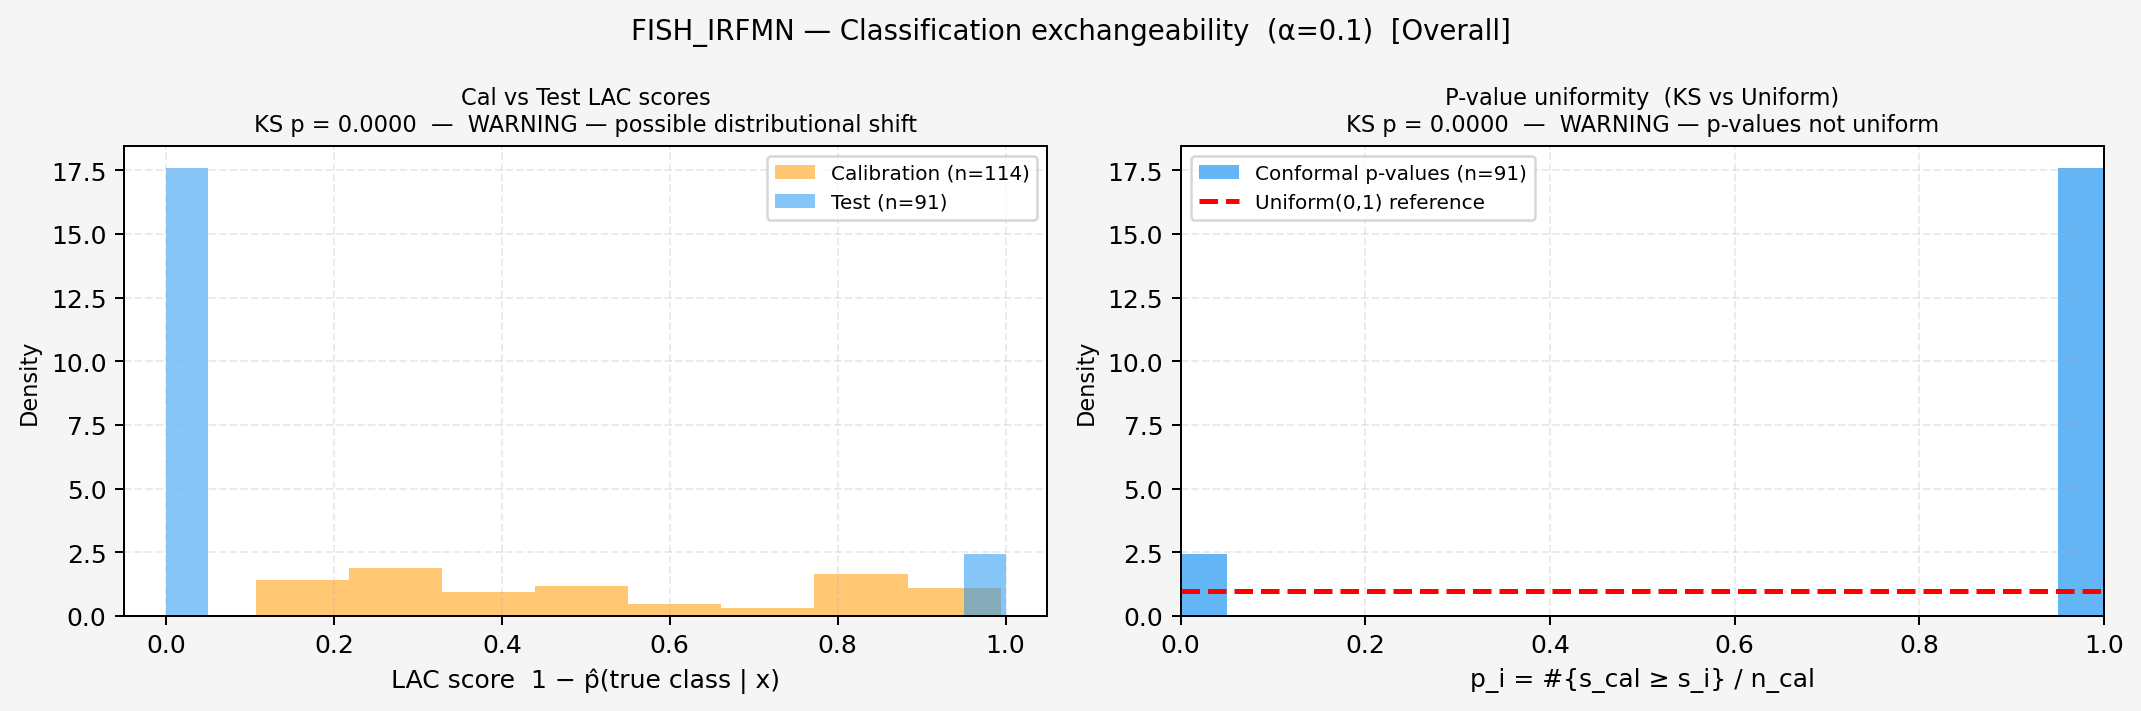
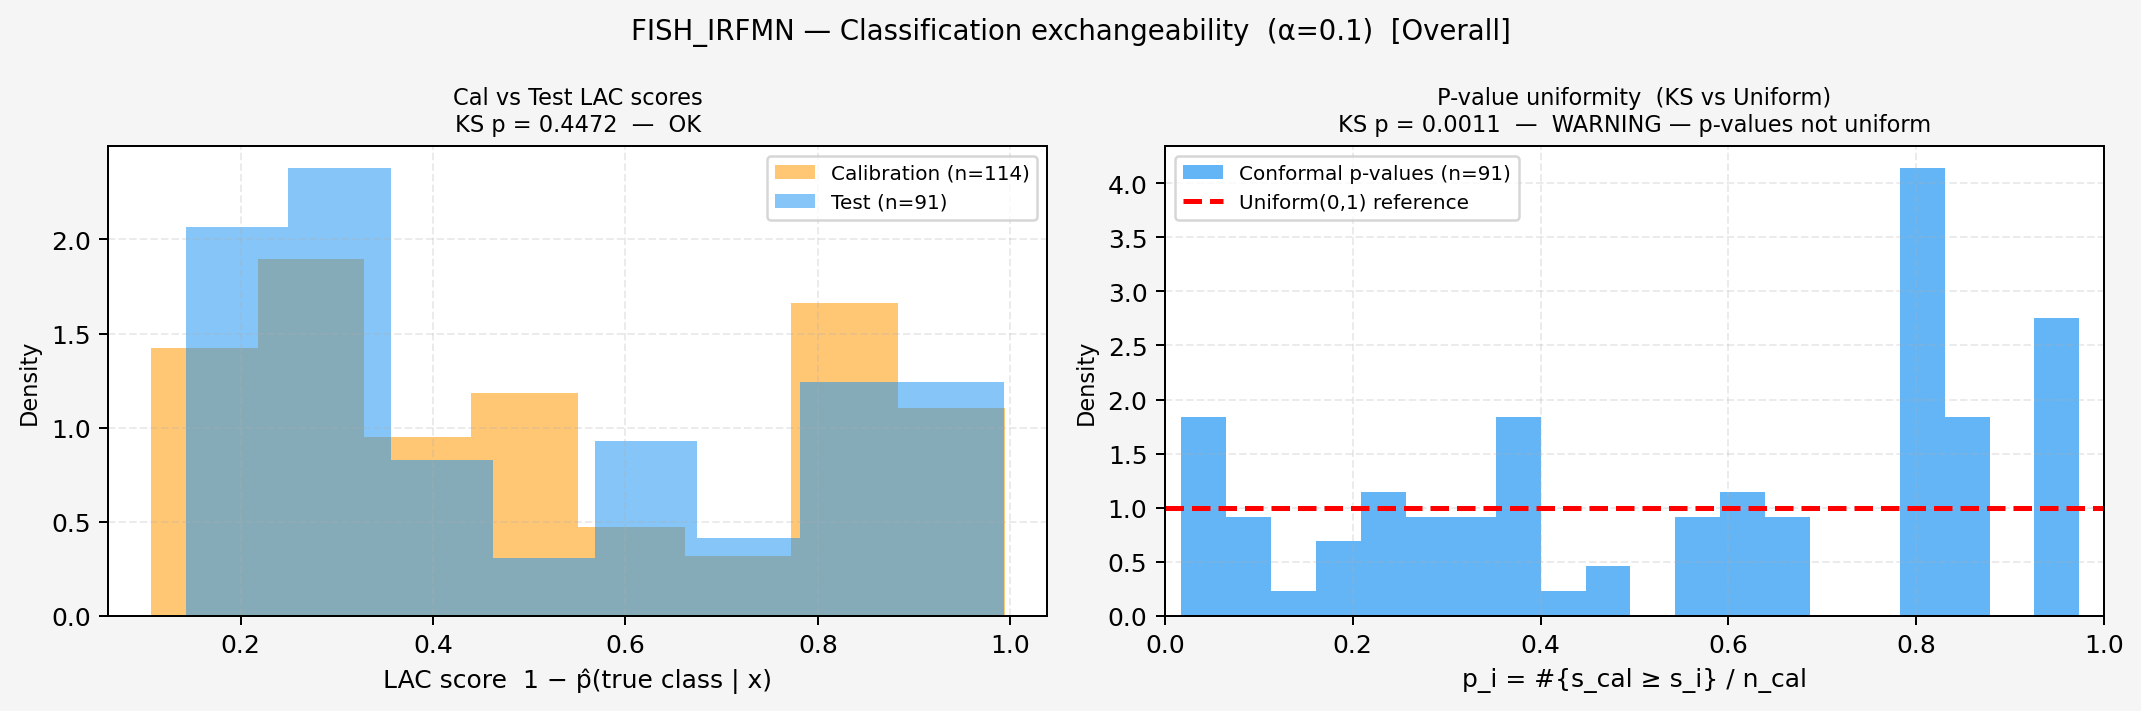
proper exchangeability test

diff --git a/tasks/mapie_publication_plots.py b/tasks/mapie_publication_plots.py
@@ -1258,199 +1258,79 @@ def plot_e1_regression_exchangeability(
     return path
 
 
-def _get_cal_scores_classifier(mapie_obj):
+def _compute_lac_scores(saved, df, model, cache_path=None):
     """
-    Extract calibration conformity scores from SplitConformalClassifier.
-    Correct path (confirmed by introspection):
-      mapie._mapie_classifier.conformity_scores_   shape (n_cal, 1)
-    Returns 1-D array.
-    """
-    raw = mapie_obj._mapie_classifier.conformity_scores_
-    return raw.squeeze()
+    Compute LAC conformity scores directly from the saved model + DataFrame.
 
+    s_i = 1 - p_pseudo(y_true | x)  where true label is known.
+    s_i = 1 - p_pseudo(y_pred | x)  where true label is absent.
 
-def _recompute_test_scores(saved, df_excel, model, cache_path):
-    """
-    Compute test LAC scores: s_i = 1 - p_pseudo(y_true_i | x_i).
-
-    Route A — tutorial Excel (has pseudo_p_* columns):
-        No ECFP recomputation needed.
-
-    Route B — main-pipeline Excel (has in_set_class_* columns):
-        Reconstruct pseudo-probabilities from the NCM distance model
-        already stored in the pickle + ECFP fingerprints.
-        Requires Smiles column + cache_path.
-
-    Route C — in_set_class_* + true label available (no ECFP needed):
-        Use 1 - in_set score proxy: s_i = 1 - p_pseudo derived from
-        saved calibration quantile.  Approximate but avoids cache_path.
-        Used as fallback when cache_path is None.
+    No column-sniffing, no routes.  Uses sigma_model from the pickle and
+    ECFP fingerprints computed from the Smiles column.
+    cache_path is optional: only speeds up fingerprint memoisation.
 
     Returns
     -------
-    scores_test   : 1-D float array  (n_test,)
-    y_true_mapped : 1-D int array    (n_test,)  contiguous class indices
-    class_order   : list of original class labels (for display)
-    route         : str
+    scores        : 1-D float array (n,)
+    y_true_mapped : 1-D int array   (n,)  — -1 where true label absent
     """
-    sigma_model   = saved["sigma_model"]
-    ncm_type      = saved["ncm"]
-    classes       = saved["classes"]           # contiguous 0-based ints
-    classes_orig  = saved["classes_original"]
-    class_to_map  = saved["class_to_mapped"]
-    mapped_to_cls = saved["mapped_to_class"]
+    from qubounds.descriptors.ecfp import smiles_to_ecfp_cached
+    from qubounds.mapie_class_lac import NCMProbabilisticClassifier
 
-    # ── detect true-label column ───────────────────────────────────────────────
-    true_col_candidates = [f"{model}_true", "True", "true", "Experimental", "Exp", "exp"]
-    true_col = next((c for c in true_col_candidates if c in df_excel.columns), None)
-    has_true = true_col is not None and df_excel[true_col].notna().any()
+    if cache_path is not None:
+        from qubounds.descriptors.ecfp import init_cache
+        init_cache(cache_path)
 
-    # ── Route A: tutorial Excel with pseudo_p_* columns ───────────────────────
-    pseudo_cols = [c for c in df_excel.columns if "pseudo_p_" in c.lower()]
-
-    if pseudo_cols and has_true:
-        display(Markdown(
-            f"  Route A: reconstructing test scores from `pseudo_p_*` columns."
-        ))
-
-        def _parse_cls(col):
-            sfx = col.lower().split("pseudo_p_")[-1]
-            try:
-                return int(sfx)
-            except ValueError:
-                return sfx
-
-        col_cls_order = [_parse_cls(c) for c in pseudo_cols]
-        cls_to_col    = {cls: i for i, cls in enumerate(col_cls_order)}
-
-        y_true_raw = df_excel[true_col].dropna().values
-        proba_mat  = df_excel[pseudo_cols].values.astype(float)
-
-        valid = np.array([y in cls_to_col for y in y_true_raw])
-        y_tv  = y_true_raw[valid]
-        pp_v  = proba_mat[valid]
-        col_i = np.array([cls_to_col[y] for y in y_tv])
-        scores_test   = 1.0 - pp_v[np.arange(len(y_tv)), col_i]
-        y_true_mapped = np.array([class_to_map.get(y, -1) for y in y_tv])
-        return scores_test, y_true_mapped, list(classes_orig), "tutorial_pseudo_p"
-
+    sigma_model  = saved["sigma_model"]
+    ncm_type     = saved["ncm"]
+    classes      = saved["classes"]
+    class_to_map = saved["class_to_mapped"]
 
     def _map(v):
         try:
             return class_to_map.get(int(float(v)), class_to_map.get(v, -1))
         except (TypeError, ValueError):
-            return class_to_map.get(v, -1)
+            return -1
 
-    # ── Route C: {tag}_lac_score_true — exact, no ECFP, check BEFORE Route B preamble ──
-    lac_col = f"{model}_lac_score_true"
-    if lac_col in df_excel.columns and has_true:
-        display(Markdown(f"  Route C: reading exact LAC scores from `{lac_col}` column."))
-        df_lac        = df_excel[[true_col, lac_col]].dropna().reset_index(drop=True)
-        y_true_mapped = np.array([_map(v) for v in df_lac[true_col].values])
-        valid_lac     = y_true_mapped >= 0
-        scores_test   = df_lac.loc[valid_lac, lac_col].values.astype(float)
-        y_true_mapped = y_true_mapped[valid_lac]
-        return scores_test, y_true_mapped, list(classes_orig), "excel_lac_score_true"
-
-    # ── Route B preamble: build df_v, y_true_mapped, y_pred_mapped ────────────────
-    inset_cols = [c for c in df_excel.columns if c.startswith("in_set_class_")]
-    if not has_true:
-        raise RuntimeError(
-            "Cannot compute test LAC scores without true labels. "
-            f"Tried columns: {true_col_candidates}"
-        )
-
-    pred_candidates = [f"{model}_pred", "pred", "Pred", "Predicted"]
-    pred_col = next((c for c in pred_candidates if c in df_excel.columns), None)
-    if pred_col is None:
-        raise RuntimeError(f"No prediction column found. Tried: {pred_candidates}")
-
-
-    df_v          = df_excel.dropna(subset=[true_col, pred_col]).reset_index(drop=True)
-    y_true_mapped = np.array([_map(v) for v in df_v[true_col].values])
-    y_pred_mapped = np.array([_map(v) for v in df_v[pred_col].values])
-    valid         = (y_true_mapped >= 0) & (y_pred_mapped >= 0)
-    df_v          = df_v[valid].reset_index(drop=True)
-    y_true_mapped = y_true_mapped[valid]
-    y_pred_mapped = y_pred_mapped[valid]
-
-   # ── Route D: in_set_class_* binary proxy (last resort) ───────────────────
-    # Approximate: 0 if true class in prediction set, 1 if not.
-    # Works without re-running mapiec.py but gives binary not continuous scores.
-    if inset_cols:
-        display(Markdown(
-            "  Route D (fallback): binary proxy from `in_set_class_*` columns. "
-            "Re-run mapiec.py with the lac_score patch for exact continuous scores."
-        ))
-        def _parse_inset(col):
-            sfx = col.replace("in_set_class_", "")
-            try:
-                v = float(sfx); return int(v) if v == int(v) else v
-            except ValueError:
-                return sfx
- 
-        inset_cls_order  = [_parse_inset(c) for c in inset_cols]
-        inset_to_j       = {c: i for i, c in enumerate(inset_cls_order)}
-        n_v              = len(df_v)
-        in_set_m         = np.zeros((n_v, len(inset_cls_order)), dtype=bool)
-        for col in inset_cols:
-            j = inset_to_j.get(_parse_inset(col), -1)
-            if j >= 0:
-                in_set_m[:, j] = df_v[col].values.astype(bool)
- 
-        inset_cls_mapped = {_map(c): i for c, i in inset_to_j.items()}
-        scores_test = np.array([
-            0.0 if (y_true_mapped[i] in inset_cls_mapped
-                    and in_set_m[i, inset_cls_mapped[y_true_mapped[i]]])
-            else 1.0
-            for i in range(n_v)
-        ])
-        return scores_test, y_true_mapped, list(classes_orig), "inset_binary_proxy"
- 
-    if cache_path is None:
-        raise RuntimeError(
-            "No lac_score column, no in_set_class_* columns, and cache_path is None. "
-            "Re-run mapiec.py with the lac_score patch."
-        )
-
-    # ── Route B proper: ECFP recompute ────────────────────────────────────────
-
-    display(Markdown("  Route B: recomputing via ECFP + NCM model."))
- 
-    smiles_col = next(
-        (c for c in ["Smiles", "SMILES", "smiles"] if c in df_excel.columns), None
-    )
+    smiles_col = next((c for c in ["Smiles", "SMILES", "smiles"] if c in df.columns), None)
     if smiles_col is None:
-        raise RuntimeError("No Smiles column found in Excel for Route B.")
- 
-    df_v_sm       = df_v.loc[df_v[smiles_col].notna()].reset_index(drop=True)
-    y_true_mapped = y_true_mapped[:len(df_v_sm)]
-    y_pred_mapped = y_pred_mapped[:len(df_v_sm)]
- 
-    from qubounds.descriptors.ecfp import smiles_to_ecfp_cached
-    from qubounds.mapie_class_lac import NCMProbabilisticClassifier
- 
-    # cache_path may be None — smiles_to_ecfp_cached works without cache,
-    # it just won't persist fingerprints between runs.
-    if cache_path is not None:
-        from qubounds.descriptors.ecfp import init_cache
-        init_cache(cache_path)
- 
-    X_test = np.array([smiles_to_ecfp_cached(s) for s in df_v_sm[smiles_col].values])
- 
+        raise RuntimeError("No Smiles column found.")
+
+    pred_col = next(
+        (c for c in [f"{model}_pred", "Pred", "pred", "Predicted"] if c in df.columns), None
+    )
+    if pred_col is None:
+        raise RuntimeError(f"No prediction column. Tried: {model}_pred, Pred, pred")
+
+    true_col = next(
+        (c for c in [f"{model}_true", "True", "true", "Experimental"] if c in df.columns), None
+    )
+
+    df_v = df.dropna(subset=[smiles_col, pred_col]).reset_index(drop=True)
+    y_pred_mapped = np.array([_map(v) for v in df_v[pred_col].values])
+    valid_pred    = y_pred_mapped >= 0
+    df_v          = df_v[valid_pred].reset_index(drop=True)
+    y_pred_mapped = y_pred_mapped[valid_pred]
+
+    y_true_mapped = np.full(len(df_v), -1, dtype=int)
+    if true_col is not None:
+        for i, v in enumerate(df_v[true_col].values):
+            y_true_mapped[i] = _map(v)
+
+    X = np.array([smiles_to_ecfp_cached(s) for s in df_v[smiles_col].values])
+
     ncm_est = NCMProbabilisticClassifier(
-        y_pred    = y_pred_mapped,
-        ncm_model = sigma_model,
-        ncm_type  = ncm_type,
-        classes   = classes,
+        y_pred=y_pred_mapped, ncm_model=sigma_model,
+        ncm_type=ncm_type, classes=classes,
     )
     ncm_est.fit()
-    pseudo_proba = ncm_est.predict_proba(X_test)
-    scores_test  = 1.0 - pseudo_proba[np.arange(len(y_true_mapped)), y_true_mapped]
- 
-    return scores_test, y_true_mapped, list(classes_orig), "ecfp_recompute"
- 
- 
+    pseudo_proba = ncm_est.predict_proba(X)   # (n, n_classes)
+
+    target_idx = np.where(y_true_mapped >= 0, y_true_mapped, y_pred_mapped)
+    scores     = 1.0 - pseudo_proba[np.arange(len(target_idx)), target_idx]
+    return scores, y_true_mapped
+
+
 def _load_lac_scores_from_excel(excel_path, model):
     """
     Load classification calibration LAC scores from the Excel.
@@ -1521,54 +1401,39 @@ def plot_e2_classification_exchangeability(
 
     mapie_obj = saved["mapie"]
 
-    # ── Calibration scores: Excel first (exact), pickle as fallback ───────────
+    # ── Calibration and test LAC scores — computed directly from the model ───────
+    # Cal: from the Calibration PI sheet (written by mapiec.py).
+    # Test: from the Prediction Intervals sheet.
+    # Both use _compute_lac_scores: Smiles + pred col + sigma_model from pickle.
+    # cache_path is optional (fingerprint memoisation only).
+
     try:
-        scores_cal, cal_source = _load_lac_scores_from_excel(class_excel_path, model)
+        df_cal = pd.read_excel(class_excel_path, sheet_name="Calibration PI")
+        scores_cal, _ = _compute_lac_scores(saved, df_cal, model, cache_path)
+        scores_cal = scores_cal[np.isfinite(scores_cal)]
+        cal_source = "Calibration PI"
         display(Markdown(
-            f"  Cal scores from Excel '{cal_source}': n={len(scores_cal)}, "
+            f"  Cal scores from Excel sheet '{cal_source}': n={len(scores_cal)}, "
             f"range=[{scores_cal.min():.3f}, {scores_cal.max():.3f}]"
         ))
-    except RuntimeError as exc_excel:
-        display(Markdown(
-            f"  Excel cal scores unavailable ({exc_excel}); trying pickle."
-        ))
-        try:
-            scores_cal = _get_cal_scores_classifier(saved["mapie"])
-            cal_source = "pickle"
-            display(Markdown(
-                f"  Cal scores from pickle: n={len(scores_cal)}, "
-                f"range=[{scores_cal.min():.3f}, {scores_cal.max():.3f}]"
-            ))
-        except AttributeError as exc_pkl:
-            display(Markdown(
-                f"E2 skipped for {model}: cannot load calibration scores — {exc_pkl}"
-            ))
-            return None, None
-
-    display(Markdown(
-        f"  Calibration scores: n={len(scores_cal)}, "
-        f"range=[{scores_cal.min():.3f}, {scores_cal.max():.3f}]"
-    ))
-
-    # ── test LAC scores ─────────────────────────────────────────────────────────
-    df = pd.read_excel(class_excel_path, sheet_name="Prediction Intervals")
-    display(Markdown(f"  Excel columns: `{list(df.columns)}`"))
-
-    try:
-        scores_test, y_true_mapped, class_order, route = _recompute_test_scores(
-            saved, df, model, cache_path
-        )
-    except Exception as exc:
-        display(Markdown(
-            f"E2 skipped for {model}: cannot compute test scores — {exc}"
-        ))
+    except Exception as exc_cal:
+        display(Markdown(f"E2 skipped for {model}: cannot compute calibration scores — {exc_cal}"))
         return None, None
 
-    display(Markdown(
-        f"  Test scores: n={len(scores_test)}, "
-        f"range=[{scores_test.min():.3f}, {scores_test.max():.3f}]  "
-        f"(route: {route})"
-    ))
+    try:
+        df_test = pd.read_excel(class_excel_path, sheet_name="Prediction Intervals")
+        scores_test_all, y_true_mapped_all = _compute_lac_scores(saved, df_test, model, cache_path)
+        # keep only rows where true label is known
+        has_true_mask = y_true_mapped_all >= 0
+        scores_test   = scores_test_all[has_true_mask]
+        y_true_mapped = y_true_mapped_all[has_true_mask]
+        display(Markdown(
+            f"  Test scores (n with true label={has_true_mask.sum()}): "
+            f"range=[{scores_test.min():.3f}, {scores_test.max():.3f}]"
+        ))
+    except Exception as exc_test:
+        display(Markdown(f"E2 skipped for {model}: cannot compute test scores — {exc_test}"))
+        return None, None
 
     # ── conformal p-values ─────────────────────────────────────────────────────
     p_values = np.array([np.mean(scores_cal >= s_i) for s_i in scores_test])

diff --git a/README.md b/README.md
@@ -312,6 +312,8 @@ These diagnostics are computed automatically in all tutorial and full pipeline t
 
 ![FISH_IRFMN_exchtest](classification_exchangeability.png "Exchangeability tests for VEGA QSAR classification model for fish acute (LC50) toxicity FISH_IRFMN")
 
+![FISH_IRFMN_exchtest](classification_exchangeability_classwise.png "Classwise Exchangeability tests for VEGA QSAR classification model for fish acute (LC50) toxicity FISH_IRFMN")
+
 ---
 
 ## Pipeline outputs